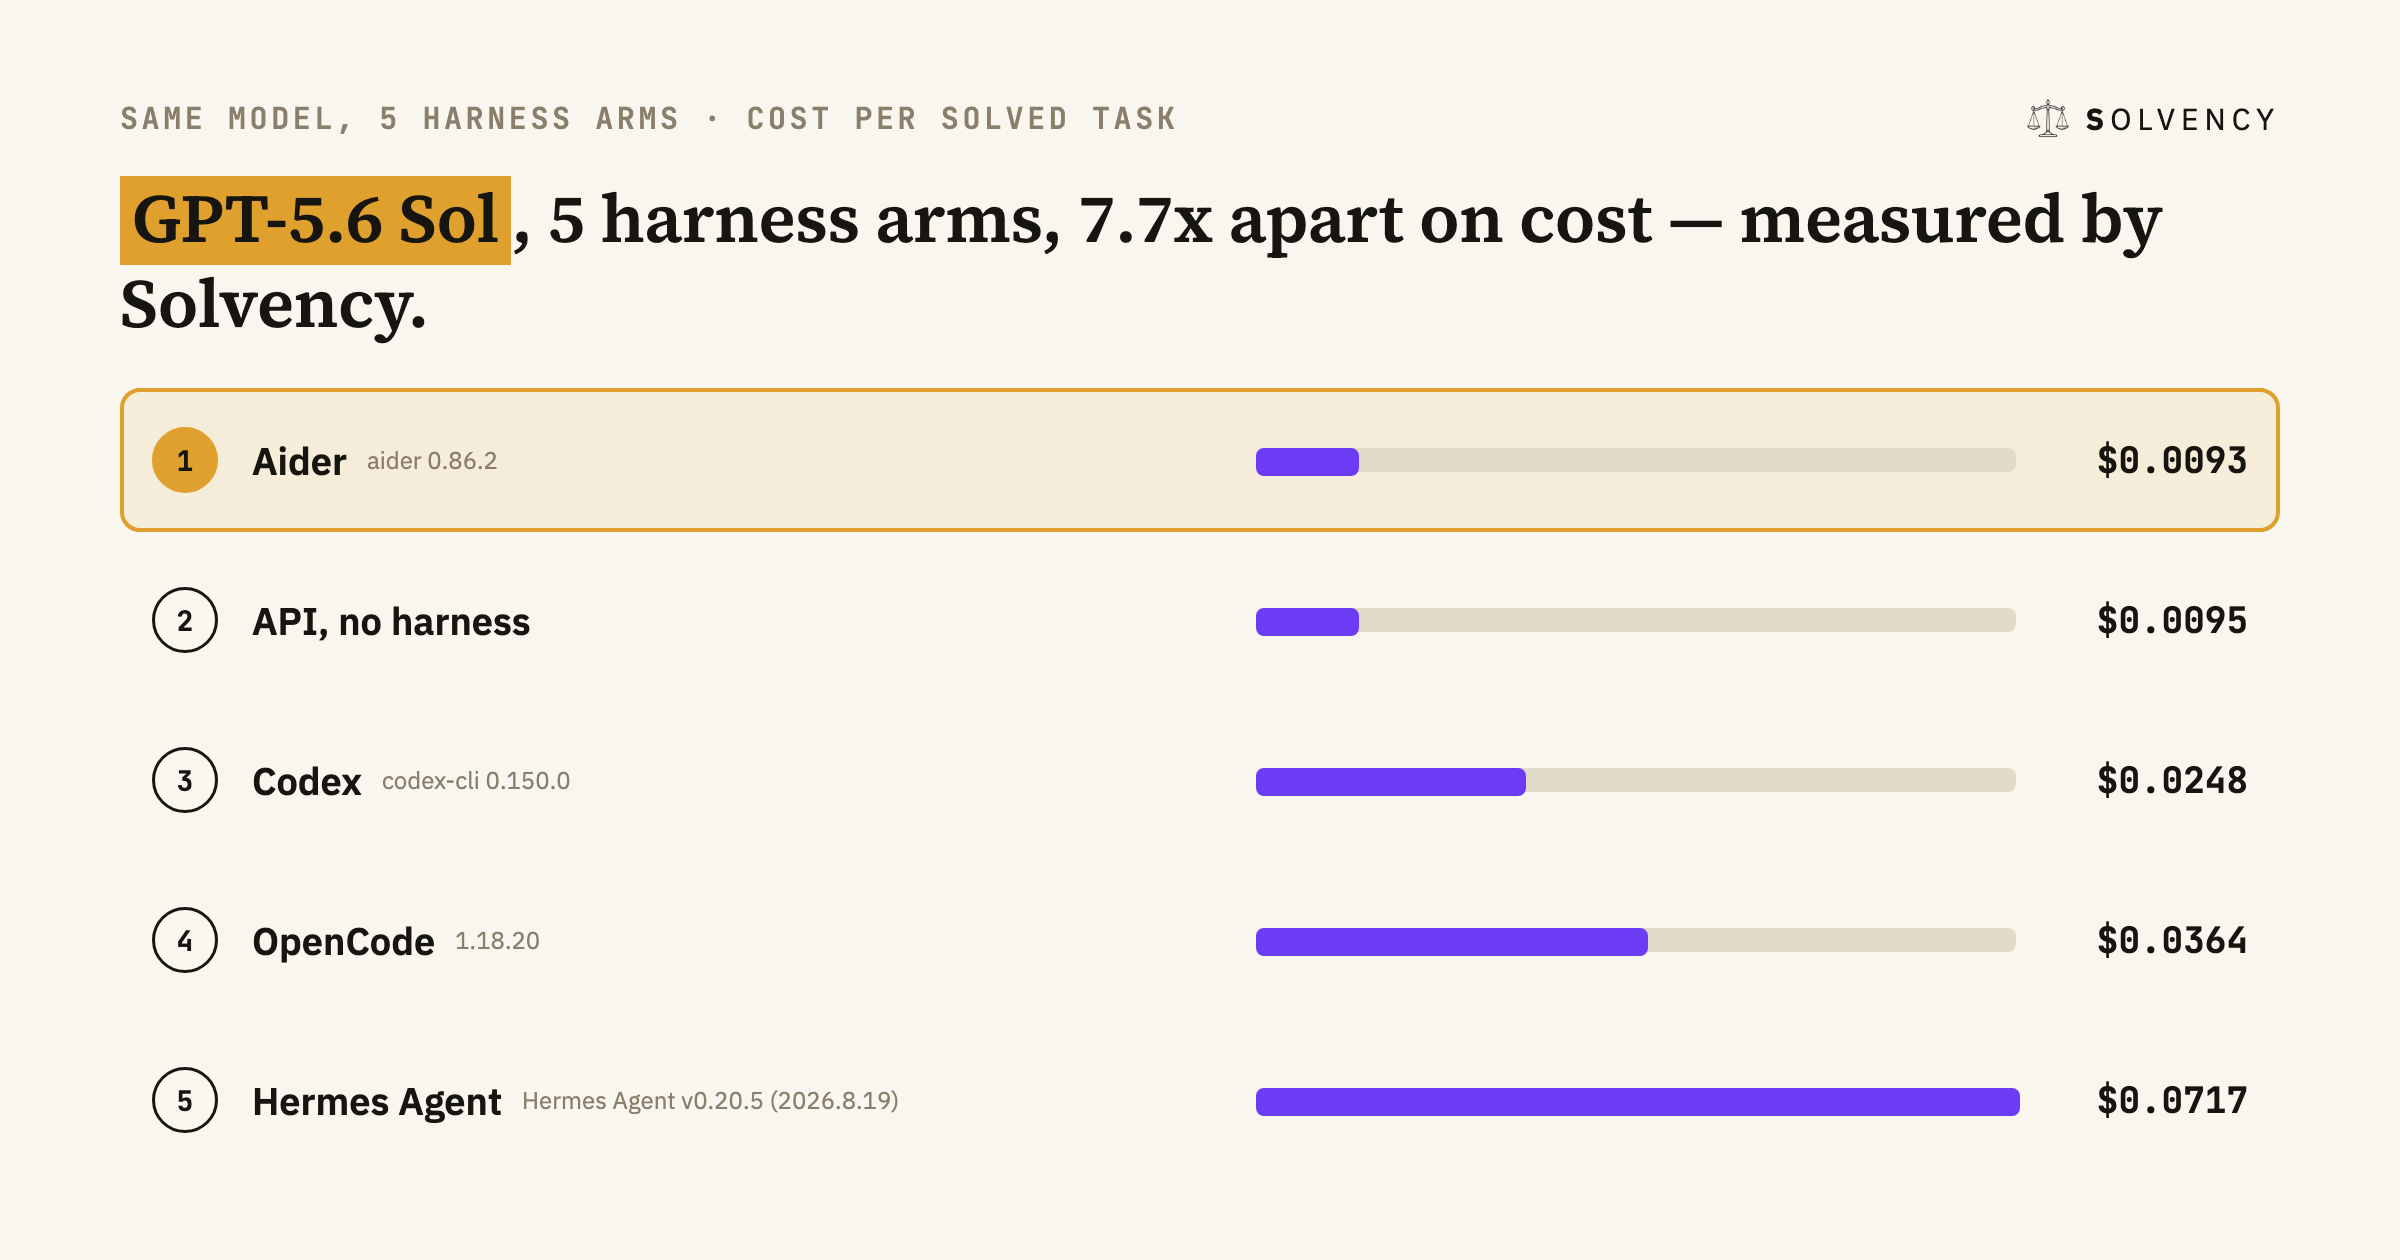
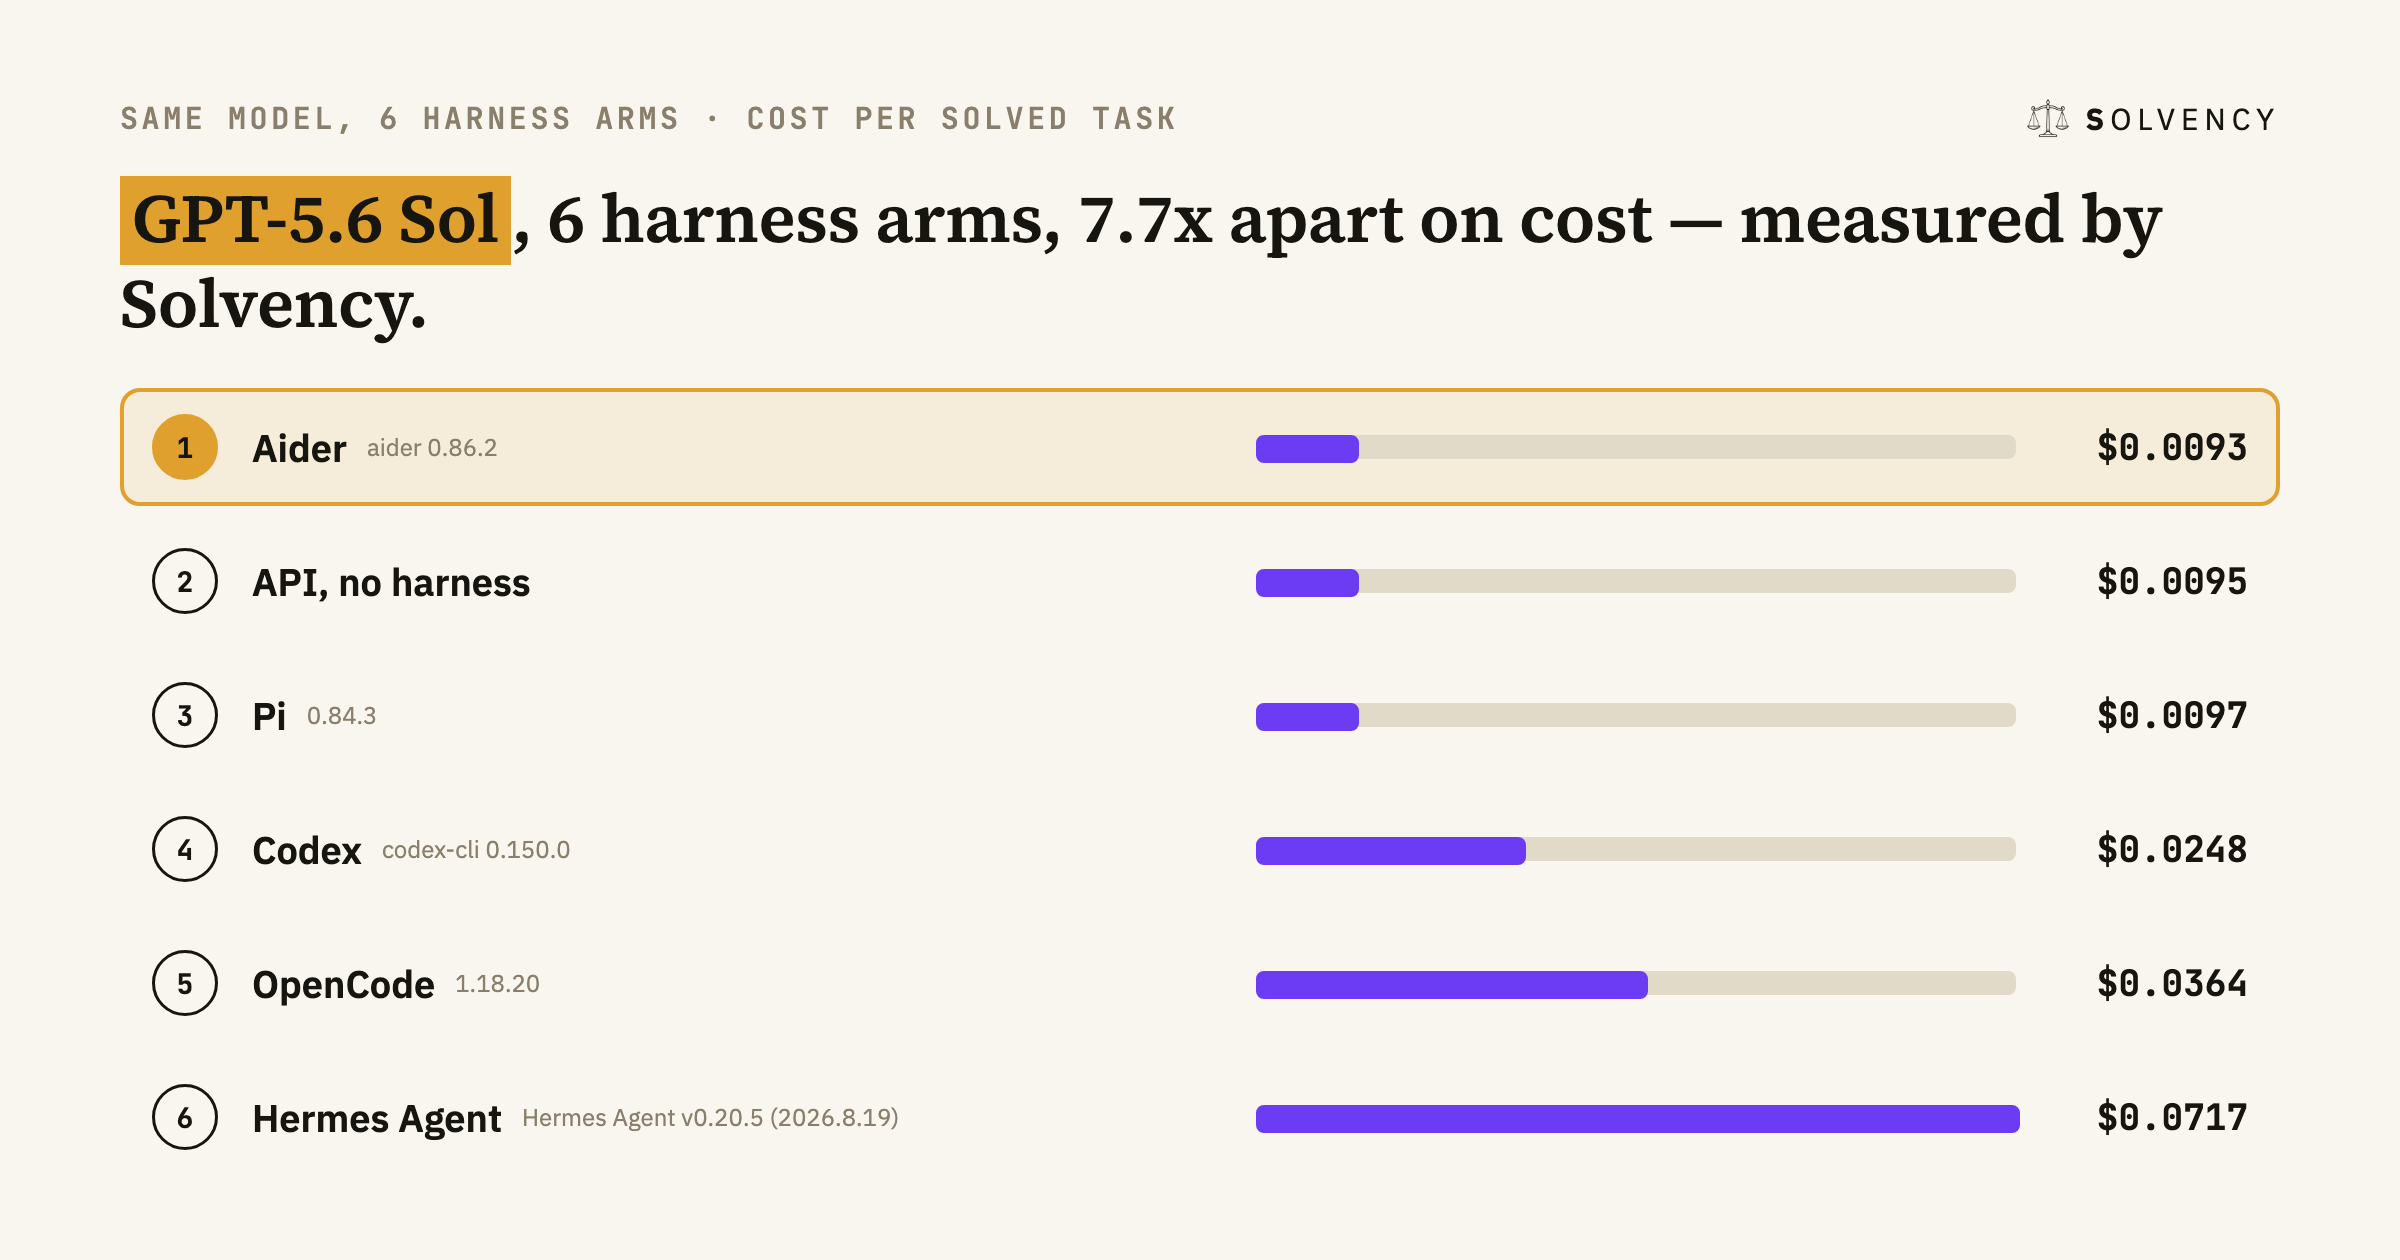
Pi joins the first-party study: six arms, same 7.7x spread
Pi adapter (npm @earendil-works/pi-coding-agent, --mode json, agent_end
usage), 36/36 at $0.0097/solved — third place, 4% over the bare call,
scaffold arriving as ~1.2k cache reads. OpenBench's cheapest arm rides
nearly free on our population too. Note 02, /harness, the og card and
every pin updated to six arms; Grok Build gap stated in limitations.

diff --git a/test/harness-report-solvency.test.ts b/test/harness-report-solvency.test.ts
@@ -24,7 +24,7 @@ type Arm = {
 };
 const arms: Arm[] = study.arms;
 const armLabel = (a: Arm) => a.harness === null ? 'API, no harness'
-  : a.harness === 'aider' ? 'Aider' : a.harness === 'codex' ? 'Codex'
+  : a.harness === 'aider' ? 'Aider' : a.harness === 'codex' ? 'Codex' : a.harness === 'pi' ? 'Pi'
   : a.harness === 'opencode' ? 'OpenCode' : a.harness === 'hermes' ? 'Hermes Agent' : a.harness;
 
 describe('Research Note 02, population three, matches the first-party study', () => {
@@ -37,9 +37,9 @@ describe('Research Note 02, population three, matches the first-party study', ()
 
   test('all five ranked rows re-derive: pass, $/solved, ratio vs cheapest', () => {
     const rows = section.split('\n')
-      .filter((l) => /^\| (Aider|API, no harness|Codex|OpenCode|Hermes Agent) \| /.test(l))
+      .filter((l) => /^\| (Aider|API, no harness|Pi|Codex|OpenCode|Hermes Agent) \| /.test(l))
       .filter((l) => cells(l).length === 6); // ranked table only; the anatomy table has 5 columns
-    assert.equal(rows.length, 5, 'expected exactly five arms in the table');
+    assert.equal(rows.length, 6, 'expected exactly six arms in the table');
     const cheapest = Math.min(...arms.map((a) => a.cost_per_solved_usd));
     const sorted = [...arms].sort((a, b) => a.cost_per_solved_usd - b.cost_per_solved_usd);
     rows.forEach((line, i) => {
@@ -54,8 +54,8 @@ describe('Research Note 02, population three, matches the first-party study', ()
   });
 
   test('the anatomy medians re-derive from the study, verbatim', () => {
-    const rows = section.split('Output |')[1].split('\n').filter((l) => /^\| (Aider|API, no harness|Codex|OpenCode|Hermes Agent) \| /.test(l));
-    assert.equal(rows.length, 5);
+    const rows = section.split('Output |')[1].split('\n').filter((l) => /^\| (Aider|API, no harness|Pi|Codex|OpenCode|Hermes Agent) \| /.test(l));
+    assert.equal(rows.length, 6);
     for (const line of rows) {
       const [label, input, cr, cw, out] = cells(line);
       const arm = arms.find((a) => armLabel(a) === label)!;

diff --git a/scripts/og-card-data.ts b/scripts/og-card-data.ts
@@ -415,7 +415,7 @@ export function rankedSolvencyHarnessCardData(): RankedCardData | null {
   if (!existsSync(studyPath)) return null;
   const study = JSON.parse(readFileSync(studyPath, 'utf8'));
   const armName = (h: string | null) => h === null ? 'API, no harness'
-    : h === 'aider' ? 'Aider' : h === 'codex' ? 'Codex'
+    : h === 'aider' ? 'Aider' : h === 'codex' ? 'Codex' : h === 'pi' ? 'Pi'
     : h === 'opencode' ? 'OpenCode' : h === 'hermes' ? 'Hermes Agent' : h;
   const arms = [...study.arms].sort((a: any, b: any) => a.cost_per_solved_usd - b.cost_per_solved_usd);
   if (arms.length < 2) return null;

diff --git a/test/og-cards.test.ts b/test/og-cards.test.ts
@@ -82,7 +82,7 @@ describe('og cards: manifest matches the live data', () => {
     assertRankedCardMatches(expected!.key, cards[expected!.key], expected);
     // spread pinned to the study itself, same figure Note 02 publishes
     assert.equal(expected!.raw.spread, '7.7x');
-    assert.equal(expected!.rows.length, 5);
+    assert.equal(expected!.rows.length, 6);
   });
 
   test('every current model has a card, and each matches modelCardData() computed now', () => {

diff --git a/reports/2026-08-same-model-four-harnesses.md b/reports/2026-08-same-model-four-harnesses.md
@@ -18,10 +18,10 @@ pdf_hero: SAME MODEL|EIGHT HARNESSES
 three times.** OpenBench ran GPT-5.6 Sol through four harnesses and published the token
 usage; Solvency repriced it at verified API rates. WildClawBench (InternLM) held four models
 constant across four scaffolds, including Hermes Agent and OpenClaw. And on 2026-08-26
-Solvency ran the measurement itself: the same GPT-5.6 Sol through five arms of its own
-benchmark — Aider, Codex, OpenCode, Hermes Agent, and a bare API call as the no-scaffold
-control. Three populations, reported separately below, never sharing a table; together they
-cover eight distinct harnesses.
+Solvency ran the measurement itself: the same GPT-5.6 Sol through six arms of its own
+benchmark — Pi, Aider, Codex, OpenCode, Hermes Agent, and a bare API call as the
+no-scaffold control. Three populations, reported separately below, never sharing a table;
+together they cover eight distinct harnesses.
 
 This revision replaces the earlier editions at this URL ("Same Model, Four Harnesses",
 2026-08-23; "Six Harnesses", earlier 2026-08-26). Nothing in the earlier tables changed;
@@ -65,8 +65,9 @@ in three benchmarks, independently.
   that bills least.
 - **Solvency Bench (12 single-turn tasks, GPT-5.6 Sol, run by Solvency):** every arm scores
   **100%**, and the bill still spans **7.7x** — from Aider's $0.0093 per solved task to
-  Hermes Agent's $0.0717. With correctness held perfectly equal, what remains is the pure
-  price of the scaffold.
+  Hermes Agent's $0.0717, with Pi (OpenBench's cheapest arm on its own population) at
+  $0.0097. With correctness held perfectly equal, what remains is the pure price of the
+  scaffold.
 
 This is not a finding that any harness is universally better. It is a finding that the
 harness changes the bill, even when the name in the model column does not. A useful cost
@@ -222,10 +223,10 @@ same caution applies to any stack that wraps one harness in another.
 ## Population three — Solvency Bench: the harness tax, isolated
 
 On 2026-08-26 Solvency stopped repricing other people's runs and ran its own: the same
-GPT-5.6 Sol through five arms of [Solvency Bench](https://github.com/LehmanTrader/solvency/tree/main/bench)'s
+GPT-5.6 Sol through six arms of [Solvency Bench](https://github.com/LehmanTrader/solvency/tree/main/bench)'s
 single-turn suite — 12 code tasks, deterministic hidden-test graders, 3 trials, temperature
 0. A bare API call is the control; every other arm is a real harness driving the same
-prompts. Dollars are the harness's own token accounting priced at verified catalog rates
+prompts, including Pi — the arm OpenBench's own population crowns cheapest. Dollars are the harness's own token accounting priced at verified catalog rates
 (the subscription arm's flat fee never enters the math; cache writes price at the uncached
 input rate, stated).
 
@@ -233,6 +234,7 @@ input rate, stated).
 |---|---|---|---:|---:|---:|
 | Aider | aider 0.86.2 | metered (OpenRouter) | 100% | **$0.0093** | 1.00x |
 | API, no harness | — | metered, single call | 100% | **$0.0095** | 1.01x |
+| Pi | 0.84.3 | metered (OpenRouter) | 100% | **$0.0097** | 1.04x |
 | Codex | codex-cli 0.150.0 | local subscription | 100% | **$0.0248** | 2.65x |
 | OpenCode | 1.18.20 | metered (OpenRouter) | 100% | **$0.0364** | 3.90x |
 | Hermes Agent | Hermes Agent v0.20.5 (2026.8.19) | metered (OpenRouter) | 100% | **$0.0717** | 7.68x |
@@ -245,6 +247,7 @@ anatomy does — median tokens per attempt, from the harnesses' own accounting:
 |---|---:|---:|---:|---:|
 | API, no harness | 103 | 0 | 0 | 288 |
 | Aider | 752 | 0 | 0 | 166 |
+| Pi | 3 | 1,192 | 0 | 206.5 |
 | Codex | 528 | 15,104 | 0 | 214 |
 | OpenCode | 3 | 0 | 6,106 | 171 |
 | Hermes Agent | 3 | 0 | 12,682 | 249 |
@@ -275,8 +278,11 @@ cached rate — while Hermes's arrives as **cache writes**, billed here at the f
 rate. Same order of context, 2.9x apart on price, decided entirely by whether the harness
 re-reads its context at the discount or rebuilds it at list.
 
-This is the cache manager (subsystem five) earning its keep, and it is invisible on every
-pricing page in the industry.
+Pi makes the same point from the light end: a ~1.2k-token scaffold arriving almost entirely
+as cache reads leaves it **4% over the bare call** — the OpenBench population's cheapest
+arm rides nearly free on ours too, and for the same reason: small context, read at the
+discount. This is the cache manager (subsystem five) earning its keep, and it is invisible
+on every pricing page in the industry.
 
 ---
 
@@ -309,14 +315,14 @@ through a harness whose verification loop and cache discipline you have priced.
 First-hand observations from running each arm (2026-08-26 builds), plus each project's
 documentation — capability notes, not endorsements:
 
-| | Claude Code | Codex | Hermes Agent | OpenCode | Aider | solvency-loop |
-|---|---|---|---|---|---|---|
-| Models | Anthropic (login/key) | OpenAI (login/key) | any (multiplexer) | any (provider/model) | any (LiteLLM-style) | any (OpenRouter) |
-| Headless one-shot | `-p --output-format json` | `exec --json` | `-z --usage-file` | `run --format json` | `--message` | library call |
-| Machine-readable usage | full incl. cache r/w | full incl. cache r/w | full incl. reasoning | per-step tokens+cost | tokens line (k-rounded ≥1k) | API usage object |
-| Cache behaviour observed | heavy reads | heavy reads | writes each session | writes each session | none (lean prompt) | none |
-| Agentic tool loop | yes | yes | yes | yes | edit-focused | minimal by design |
-| Execution sandboxing | policy/hooks | sandbox modes | egress controls | permission prompts | none (git-scoped) | docker, network-less |
+| | Claude Code | Codex | Pi | Hermes Agent | OpenCode | Aider | solvency-loop |
+|---|---|---|---|---|---|---|---|
+| Models | Anthropic (login/key) | OpenAI (login/key) | any (provider/model) | any (multiplexer) | any (provider/model) | any (LiteLLM-style) | any (OpenRouter) |
+| Headless one-shot | `-p --output-format json` | `exec --json` | `-p --mode json` | `-z --usage-file` | `run --format json` | `--message` | library call |
+| Machine-readable usage | full incl. cache r/w | full incl. cache r/w | full incl. cache r/w + cost | full incl. reasoning | per-step tokens+cost | tokens line (k-rounded ≥1k) | API usage object |
+| Cache behaviour observed | heavy reads | heavy reads | small scaffold, read back | writes each session | writes each session | none (lean prompt) | none |
+| Agentic tool loop | yes | yes | yes (extensible) | yes | yes | edit-focused | minimal by design |
+| Execution sandboxing | policy/hooks | sandbox modes | extension-defined | egress controls | permission prompts | none (git-scoped) | docker, network-less |
 
 ---
 
@@ -384,6 +390,9 @@ success rate. Until the system is measured, the honest result is: **success rate
   write premiums are not modelled.
 - **Aider's token counts are its own rounded reporting** (k-rounded above 1,000), recorded
   as reported.
+- **Grok Build is still unmeasured by Solvency.** It appears only in population one
+  (OpenBench's usage, repriced); adding it first-party needs xAI-side access not yet
+  in place. The eight-harness union is complete; the first-party arm set is not.
 - **The two Claude Code rows are not the same Claude Code.** Population one pins CLI 2.1.214;
   population two records a Docker image tag from a different build line, months apart. Even
   the shared harness name does not license a cross-population comparison.
